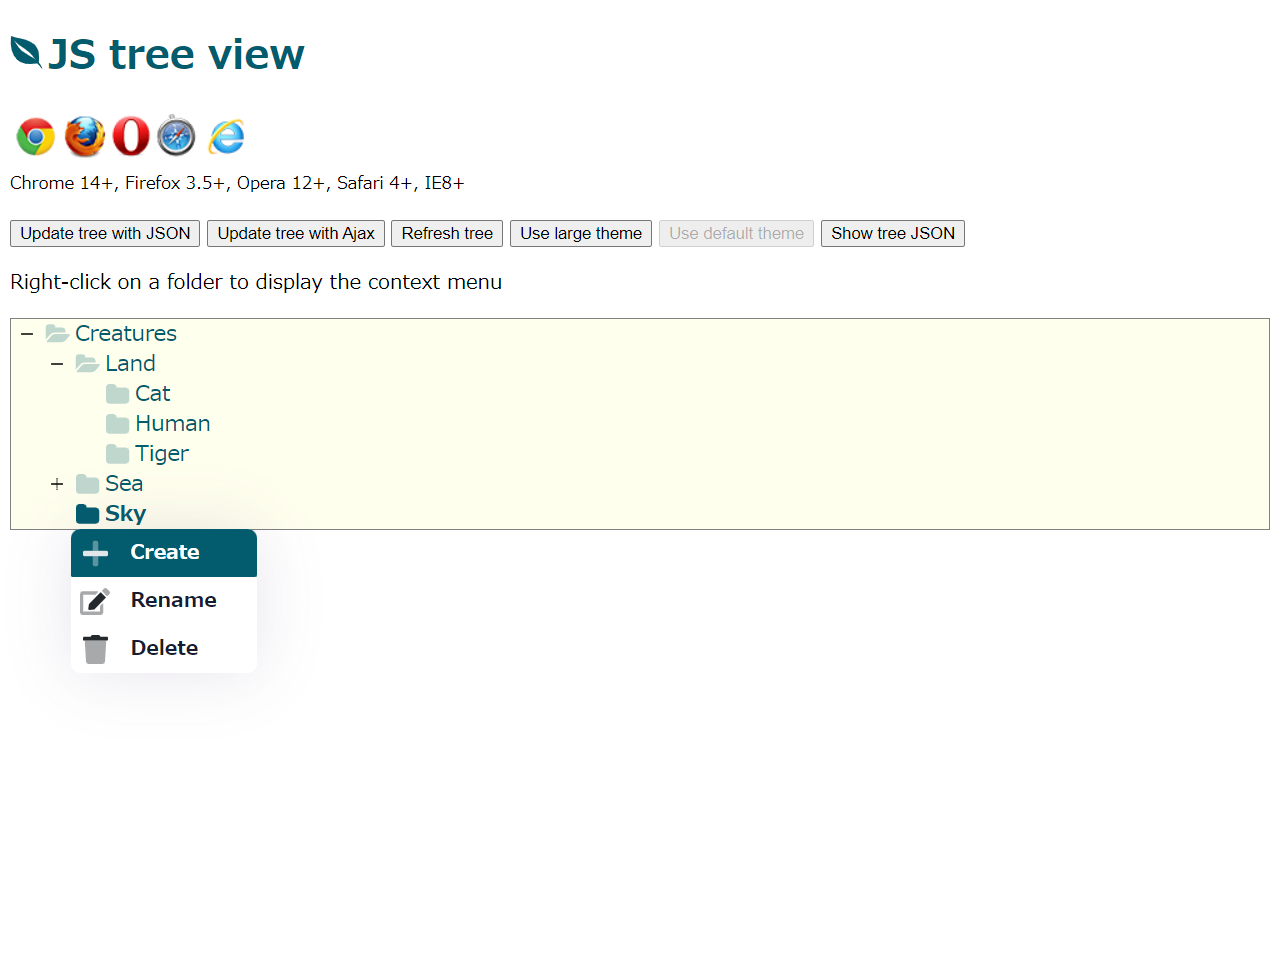
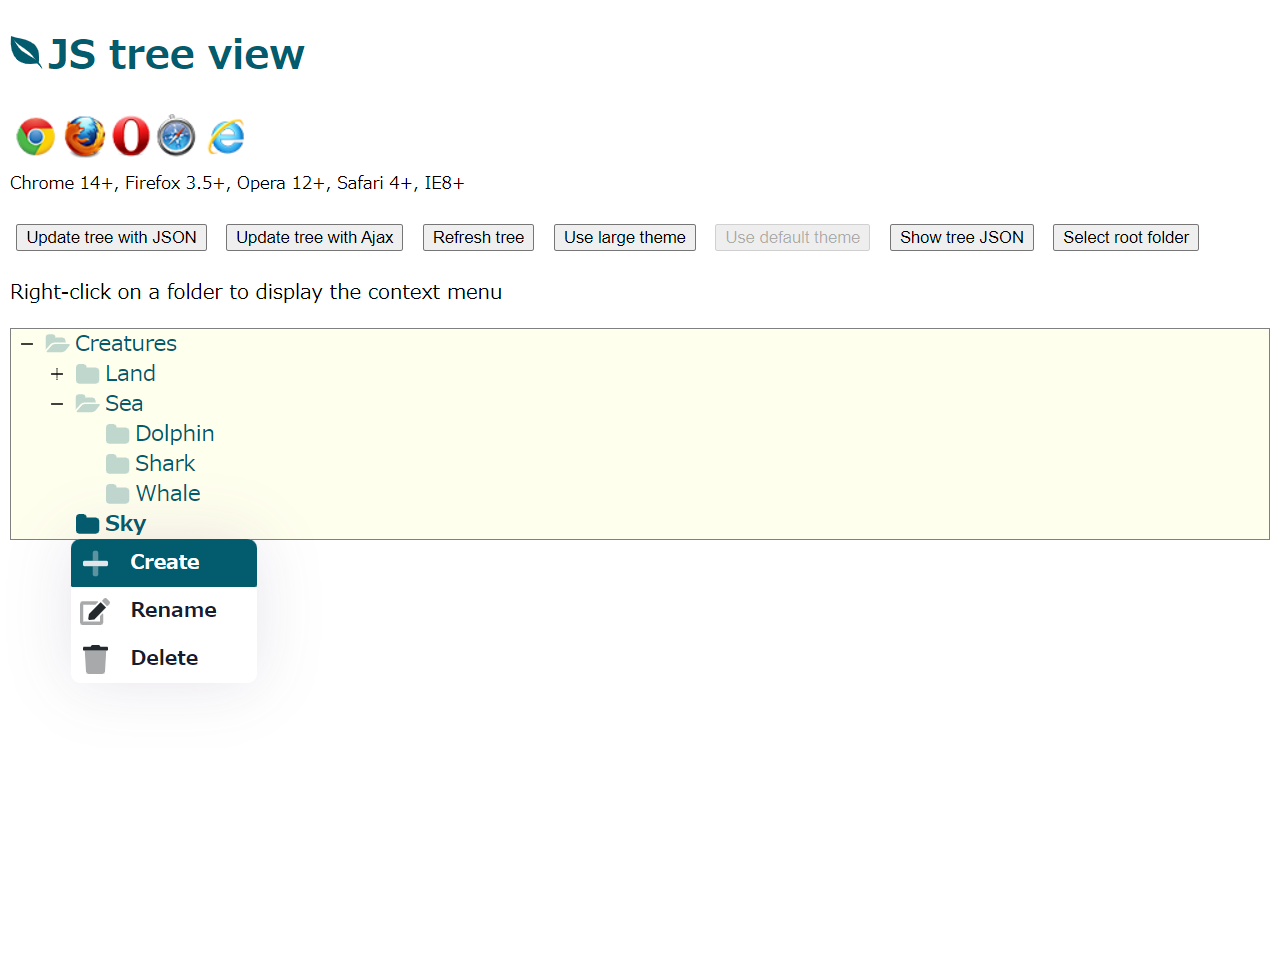
Added folder selection method to Tree module.

Changed region(s): [[0.0, 0.213, 0.9375, 0.7303]]

diff --git a/src/js/Tree.js b/src/js/Tree.js
@@ -8,7 +8,7 @@ export default class {
     // console.log(JSON.stringify(this.opts, null, 2));
 
     // Tree instance.
-    this.tree = $(ctx).jstree({
+    globalThis.tree = this.tree = $(ctx).jstree({
       core: {
         // data configuration.
         data: {
@@ -360,9 +360,22 @@ export default class {
   }
 
   /**
+   * Select a node.
+   * 
+   * @param {any} obj an array can be used to select multiple nodes.
+   * @param {boolean} supressEvent if set to true the changed.jstree event won't be triggered. 
+   * @param {boolean} preventOpen if set to true parents of the selected node won't be opened.
+   */
+  selectNode(obj, supressEvent = false, preventOpen = false) {
+    this.tree.select_node(obj, supressEvent, preventOpen);
+  }
+
+  /**
    * Returns an array of tree nodes converted to JSON.
    */
   getJson() {
-    return this.tree.get_json('#', {flat: true});
+    const json = this.tree.get_json('#', {flat: true});
+    console.log(JSON.stringify(json, null, 2));
+    return json;
   }
 }

diff --git a/index.html b/index.html
@@ -7,6 +7,11 @@
   <link rel="stylesheet" href="node_modules/jstree/dist/themes/default/style.min.css">
   <link rel="stylesheet" href="src/css/tree.css">
   <title>JS tree view</title>
+  <style>
+    button {
+      margin: 5px;
+    }
+  </style>
 </head>
 <body>
   <h1 style="display: flex; align-items: baseline; color: hsl(190deg, 96%, 22%)">
@@ -27,6 +32,7 @@
     <button data-on-use-large-theme type="button">Use large theme</button>
     <button data-on-use-default-theme type="button" disabled="disabled">Use default theme</button>
     <button data-on-show-tree-json type="button">Show tree JSON</button>
+    <button data-on-sel-root type="button">Select root folder</button>
   </p>
 
   <p>Right-click on a folder to display the context menu</p>
@@ -98,6 +104,9 @@
       })
       .on('click', '[data-on-show-tree-json]', () => {
         alert(JSON.stringify(tree.getJson()));
+      })
+      .on('click', '[data-on-sel-root]', () => {
+        tree.selectNode('root');
       });
   </script>
 </body>

diff --git a/README.md b/README.md
@@ -25,6 +25,14 @@ You can try the tree view by accessing the installed directory from your browser
 
 All notable changes to this project will be documented in this file.
 
+### [1.0.8] - 2021-11-17
+#### Fixed
+- Added folder selection method to Tree module.
+  ```js
+  // Select root folder.
+  tree.selectNode('root');
+  ```
+
 ### [1.0.7] - 2021-11-16
 #### Fixed
 - Fixed context menu design to improve user interactivity.
